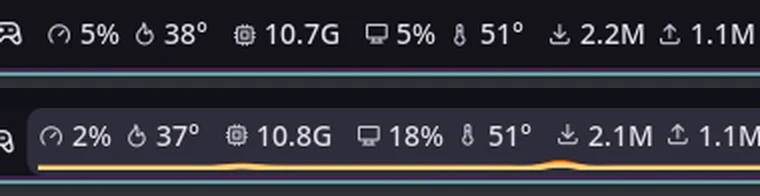
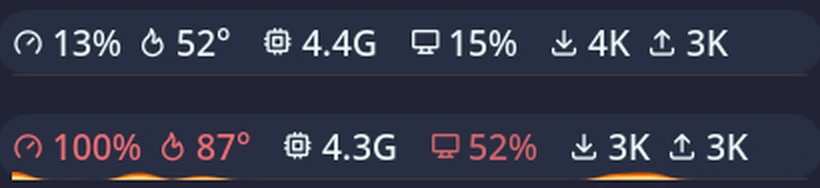
docs: refresh the screenshots for the new flame and panel

diff --git a/gamer-mode/README.md b/gamer-mode/README.md
@@ -36,6 +36,13 @@ live readings in an aligned table and ends with gamer-mode state.
 The panel shows a bar per reading, the power profile selector, the suspend
 profile selector, what the plugin has suspended, and the maintenance actions.
 
+![The panel with gamer mode running](panel.webp)
+
+Running under load. CPU and GPU are past their thresholds so their bars have
+warmed; RAM and swap have not. The mark carries its halo and the header its
+ember, and the suspend profile becomes a label because the session already
+recorded one.
+
 Pick `light` or `heavy` in the panel and press Enable, and that profile applies
 for the session. A plugin reads its own settings and cannot write them, so the
 choice rides along with the enable rather than changing the **Gamer mode
@@ -70,7 +77,8 @@ of suspended targets. Vertical bars stack each reading and omit the flame.
 
 ![Monitor widget with gamer mode off above and on below](monitor.webp)
 
-Gamer mode off above; the live flame below shows it running.
+Gamer mode off above; below it running under load, with the flame lit and the
+readings past their thresholds warmed toward the highlight colour.
 
 ### The pill
 

diff --git a/README.md b/README.md
@@ -8,9 +8,10 @@ with one click, then restore what was running before.
 > Requires Noctalia v5 and plugin API 19. Noctalia v4 uses a different QML
 > plugin format and will not list or load this source.
 
-<img src="docs/images/panel.webp" width="380" alt="The panel with gamer mode running, showing nine suspended targets">
+<img src="docs/images/panel.webp" width="380" alt="The panel with gamer mode running, showing four suspended targets">
 
-The panel with gamer mode running.
+The panel with gamer mode running under load: CPU and GPU past their thresholds,
+the mark ringed by its halo, four targets suspended.
 
 Metrics come from the shell's own system monitor, which reads NVIDIA cards
 through NVML in process. The plugin spawns nothing per poll, and AMD and Intel
